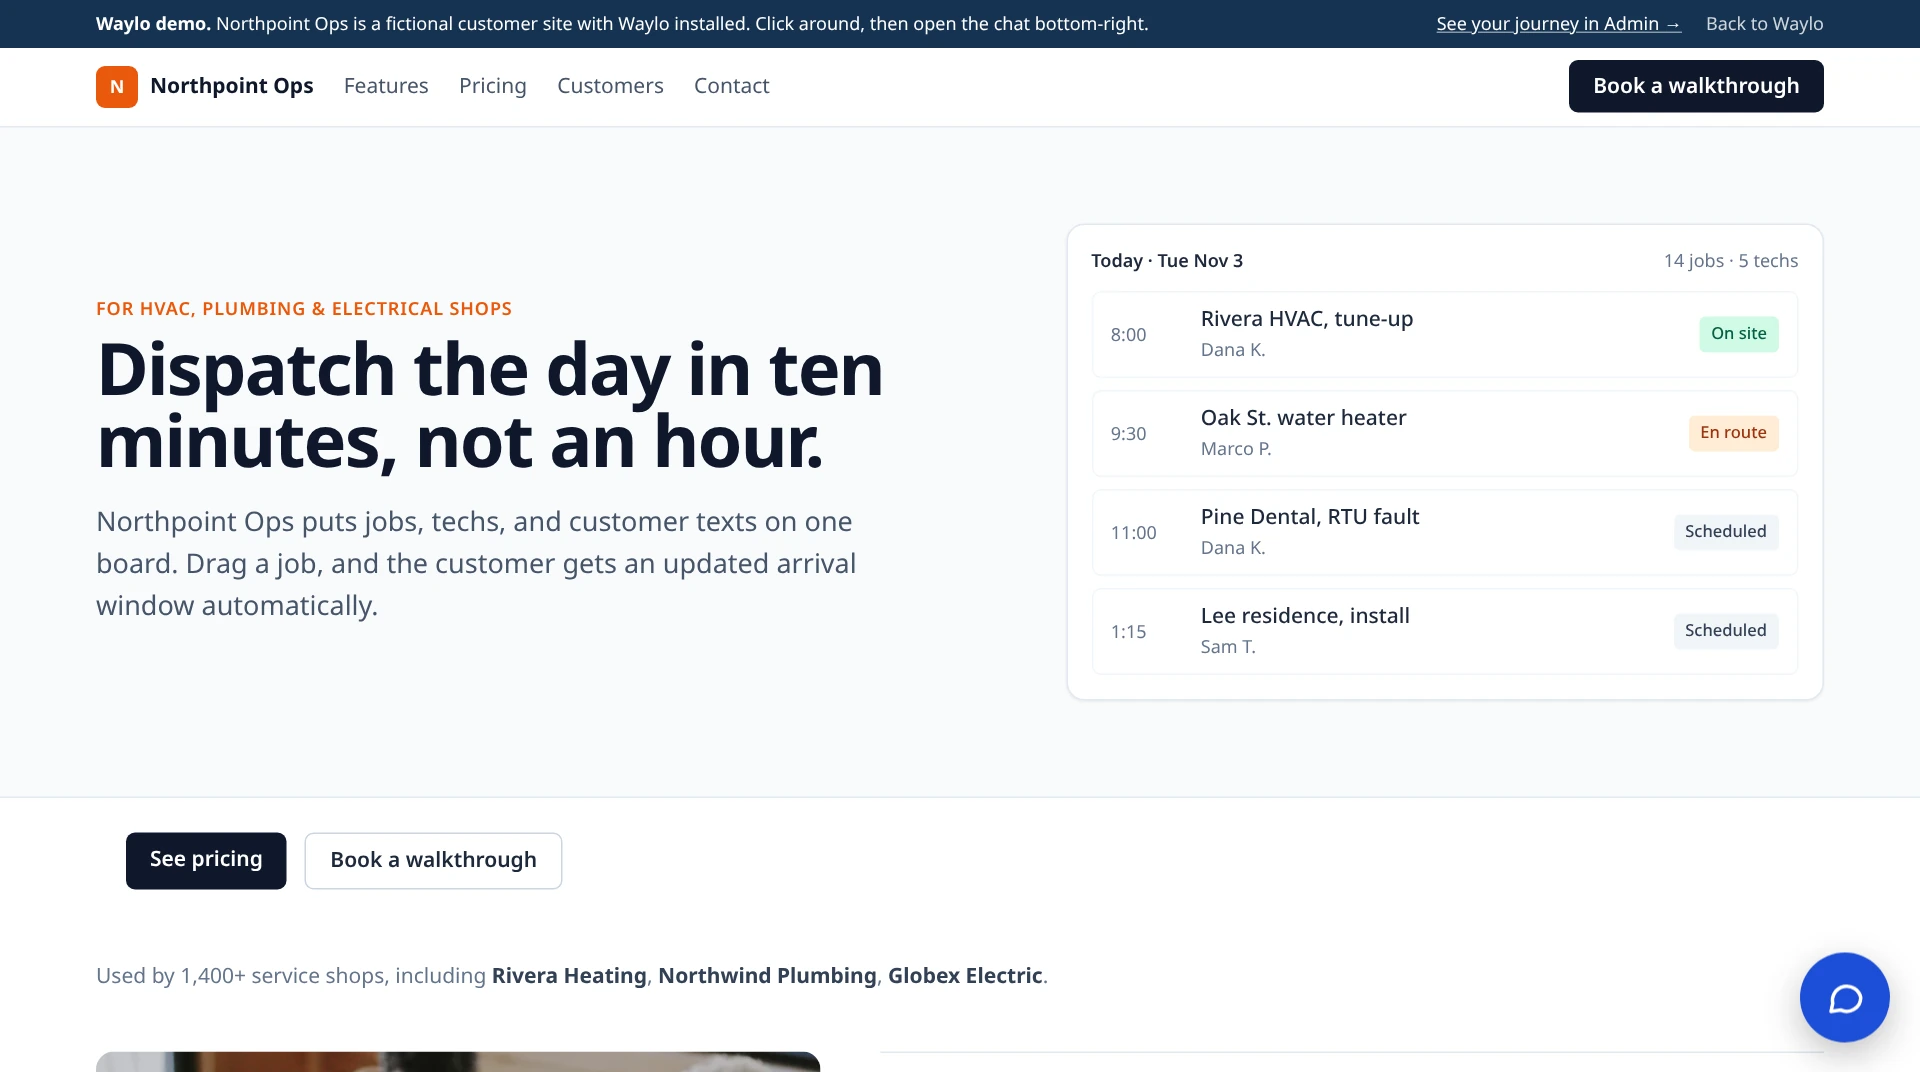
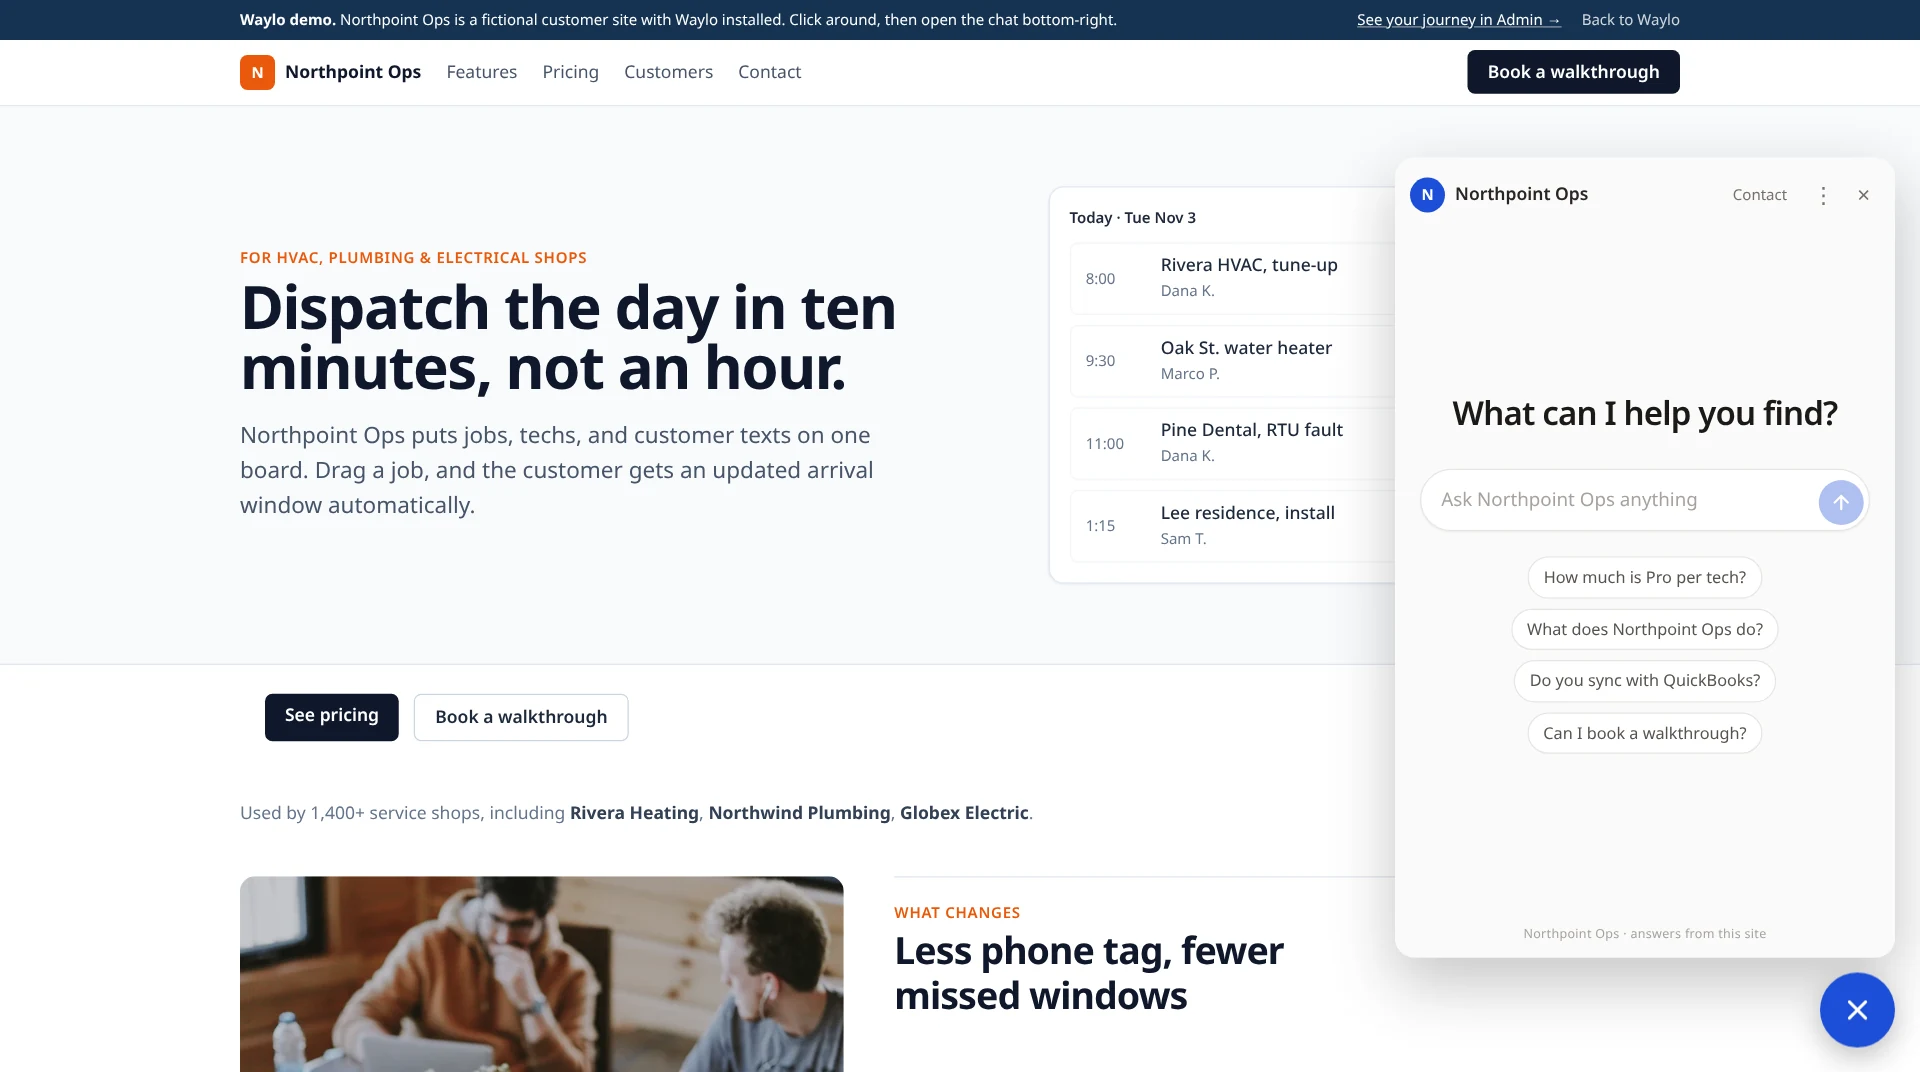
Reshoot chat screenshots with the new widget (start screen, streamed cited answers)

diff --git a/src/components/marketing/Shots.tsx b/src/components/marketing/Shots.tsx
@@ -2,10 +2,10 @@ import Image from "next/image";
 // Real product screenshots. Admin shots were captured from a local Waylo build with
 // sample data (anonymous/sample visitors, our own site crawled); demo-site shots are the public /demo page (Northpoint Ops).
 export const SHOTS = {
-  answer: { src: "/product/demo-northpoint-answer.webp", w: 1920, h: 1072, where: "waylo-j5hv.onrender.com/demo", alt: "Waylo chat on the Northpoint Ops demo site answering a pricing question with a numbered source chip", caption: "Live /demo: Northpoint Ops is a sample company. The answer quotes Northpoint Ops’ pricing page and links it." },
-  widget: { src: "/product/widget-answer.webp", w: 406, h: 648, where: "Chat widget", alt: "Close-up of the Waylo chat widget: AI Chat and Contact tabs, a cited answer, thumbs feedback, and Talk to a person", caption: "The widget: AI Chat and Contact tabs, source chip, 👍/👎, “Talk to a person”." },
-  demoHome: { src: "/product/demo-northpoint-home.webp", w: 1920, h: 1072, where: "waylo-j5hv.onrender.com/demo", alt: "Northpoint Ops demo site with the Waylo launcher button in the corner", caption: "Launcher mode: one round button bottom-right, chat loads only when opened." },
-  demoPricing: { src: "/product/demo-northpoint-pricing.webp", w: 1920, h: 1072, where: "waylo-j5hv.onrender.com/demo/pricing", alt: "Northpoint Ops demo pricing page", caption: "The page the answer cited. Visitors can click through and check." },
+  answer: { src: "/product/demo-northpoint-answer.webp", w: 1920, h: 1072, where: "waylo-j5hv.onrender.com/demo", alt: "Waylo chat on the Northpoint Ops demo site answering “Do you sync with QuickBooks?” with a numbered source chip for the Features page", caption: "Live /demo: Northpoint Ops is a sample company. The answer comes from its Features page and links it." },
+  widget: { src: "/product/widget-answer.webp", w: 406, h: 648, where: "Chat widget", alt: "Close-up of the Waylo chat widget: AI Chat and Contact tabs, a cited answer with a source chip, Copy, Regenerate, thumbs feedback, and Talk to a person", caption: "The widget: a cited answer with its source chip, Copy, Regenerate, 👍/👎 and “Talk to a person”." },
+  demoHome: { src: "/product/demo-northpoint-home.webp", w: 1920, h: 1072, where: "waylo-j5hv.onrender.com/demo", alt: "Northpoint Ops demo site with the Waylo chat open on its start screen: “What can I help you find?” and four suggested questions", caption: "What visitors see: the chat opens with a few suggested questions they can tap." },
+  demoPricing: { src: "/product/demo-northpoint-pricing.webp", w: 1920, h: 1072, where: "waylo-j5hv.onrender.com/demo/pricing", alt: "Northpoint Ops demo pricing page with the Waylo chat answering “How much is Pro per tech?” and citing the pricing page", caption: "On the pricing page, the answer links the page it came from so visitors can check." },
   home: { src: "/product/admin-home.webp", w: 1440, h: 900, where: "Admin → Home", alt: "Waylo admin home with the go-live checklist, conversation, question, contact form and high-intent counts, and a 14-day questions chart", caption: "Admin home: go-live checklist, today’s numbers, questions over 14 days." },
   tracking: { src: "/product/admin-tracking.webp", w: 1440, h: 900, where: "Admin → Tracking → visitor", alt: "Visitor journey in the Waylo admin showing pageviews, referrer and questions in order", caption: "Visitor journey: pages, referrer, and questions in the order they happened." },
   content: { src: "/product/admin-content.webp", w: 1440, h: 900, where: "Admin → Content", alt: "Waylo admin Content view listing crawled pages with how often each was cited", caption: "Content: every crawled page, its text preview, and how often answers cited it." },

diff --git a/src/lib/tour.ts b/src/lib/tour.ts
@@ -8,7 +8,7 @@ const STEPS: { file: string; title: string; caption: string; alt: string; fallba
   { file: "02-add-site-crawl.webp", title: "Add your site and crawl it", caption: "Paste your domain in Content. Waylo reads your public pages in the background, starting from your sitemap, and lists every page it kept.", alt: "Waylo Content view with the crawl box and the list of indexed pages", fallback: ["/product/admin-content.webp", 1440, 900], href: "/product/ai-chat" },
   { file: "03-branding.webp", title: "Name it, color it, guide it", caption: "Assistant name, accent color, and greeting in Settings. Facts, rules, and skills in Guidance for what your pages don’t say.", alt: "Waylo Settings with workspace, website, company profile and branding", fallback: ["/product/admin-settings.webp", 1440, 900], href: "/product/branding" },
   { file: "04-install-snippet.webp", title: "Add Waylo to your site", caption: "Copy your snippet from Install and paste it before </body> or in Google Tag Manager. Launcher, sidebar, or data-mode=\"track\".", alt: "Waylo Install page with the copy-paste script tag", fallback: ["/product/admin-install.webp", 1440, 900], href: "/product/install" },
-  { file: "05-live-chat-cited.webp", title: "Visitors get cited answers", caption: "Answers come only from your pages and guidance, with source chips that link the page used. No match means “I don’t know,” not a guess.", alt: "Waylo AI Chat page with the live preview answering a pricing question with a source chip", fallback: ["/product/demo-northpoint-answer.webp", 1920, 1072], href: "/product/citations" },
+  { file: "05-live-chat-cited.webp", title: "Visitors get cited answers", caption: "Answers come only from your pages and guidance, with source chips that link the page used. No match means “I don’t know,” not a guess.", alt: "Waylo pricing page with the Waylo chat open, answering “Is there a free trial?” with a source chip", fallback: ["/product/demo-northpoint-answer.webp", 1920, 1072], href: "/product/citations" },
   { file: "06-dashboard-questions-leads.webp", title: "See questions, leads and journeys", caption: "Questions, leads and visitor journeys show up here as people use the chat. This is a fresh test workspace, so the counts are small.", alt: "Waylo Home dashboard for a test workspace: setup checklist, conversation and question counts, and workspace status", fallback: ["/product/admin-home.webp", 1440, 900], href: "/product/analytics" },
   { file: "07-slack-routing.webp", title: "Route serious visitors to Slack", caption: "On any plan, paste a Slack incoming webhook and pick events. High-intent visitors, contact forms, and “talk to a person” requests post with a link to the conversation.", alt: "Waylo Integrations page with Slack webhook, CRM webhook and notification settings", fallback: ["/product/admin-integrations.webp", 1440, 900], href: "/product/slack-routing" },
   { file: "08-trial.webp", title: "Publish on the Trial, upgrade when it earns", caption: "Publishing needs a Trial or plan. Starter is $79/mo and Growth $249/mo through Stripe Checkout (test mode during early access).", alt: "Waylo Billing page with Trial, Starter and Growth plans", fallback: ["/product/admin-billing.webp", 1440, 900], href: "/pricing" },

diff --git a/src/lib/pages/product.ts b/src/lib/pages/product.ts
@@ -34,7 +34,7 @@ export const PRODUCT: InfoDef[] = [
   answer: "After each answer, Waylo attaches up to three source chips, each linking to a page on your site that the answer used. If no page supports an answer, it doesn’t invent a source. It says it couldn’t find one.",
   metaTitle: "Cited answers and source chips", metaDesc: "Waylo answers website visitors with numbered source chips that link to the exact pages used. How citations work, what visitors see, and how you audit them.",
   blocks: [
-    { t: "shot", eyebrow: "What visitors see", h: "A short answer with its source", shot: "widget", p: ["On the Northpoint Ops demo, “How much is Pro per tech?” gets a one-line answer and a chip labeled **1 · Northpoint Ops Pricing**. Click it and you land on the pricing page the numbers came from.", "A visitor doesn’t have to take the chat’s word for it. They can check in one click."],
+    { t: "shot", eyebrow: "What visitors see", h: "A short answer with its source", shot: "widget", p: ["On the Northpoint Ops demo, “Do you sync with QuickBooks?” gets a one-line answer and a chip labeled **1 · Northpoint Ops Features**. Click it and you land on the page the answer came from.", "A visitor doesn’t have to take the chat’s word for it. They can check in one click."],
       bullets: [["Up to 3 chips", "Per answer, numbered in the order used."], ["Absolute links", "Chips open the real page on your domain."], ["No chip, no claim", "When nothing supports an answer, it says so."]] },
     { t: "prose", eyebrow: "Why it matters", h: "Why sources matter", p: ["Most website bots answer confidently and you can’t tell where the words came from. When the answer is wrong, the visitor finds out later, usually on a sales call.", "Showing the source helps twice. Visitors trust a correct answer more because they can check it. A wrong answer is easy to spot and fix, because you can see which page the model used.", "It also tells you which pages do the selling. The Content view counts how often each page was cited."],
       aside: { title: "How Waylo picks sources", items: ["Retrieves the pages that best match the question", "The model must list which numbered sources it used", "Waylo turns those numbers into chips", "Guidance facts can answer without a page; those show no chip"] } },

diff --git a/src/components/marketing/HomeTour.tsx b/src/components/marketing/HomeTour.tsx
@@ -6,7 +6,7 @@ import { SlackCard } from "./HomeVisuals";
 type Tab = { title: string; line: string; img?: { src: string; w: number; h: number; alt: string }; note?: string };
 // Homepage-only tour: what an evaluator gets, not setup steps. Separate from the 8-step tour in lib/tour.ts.
 const TABS: Tab[] = [
-  { title: "Visitors get a straight answer", line: "Waylo answers from your own pages and links the page it used, so visitors can check it.", img: { src: "/tour/05-live-chat-cited.webp", w: 1600, h: 893, alt: "Waylo AI Chat page with a live preview answering a pricing question and a source chip linking the pricing page" }, note: "Test workspace" },
+  { title: "Visitors get a straight answer", line: "Waylo answers from your own pages and links the page it used, so visitors can check it.", img: { src: "/tour/05-live-chat-cited.webp", w: 1600, h: 893, alt: "Waylo chat on the Waylo pricing page answering “Is there a free trial?” with a source chip linking the signup page" }, note: "Live chat on this site" },
   { title: "See what buyers ask", line: "Conversations, questions and contact requests add up on your dashboard as people use the chat.", img: { src: "/tour/home-dashboard-sample.webp", w: 1600, h: 893, alt: "Waylo Home dashboard for the fictional Northpoint Ops workspace with conversation, question, contact form and high-intent counts and a 14-day question chart" }, note: "Sample data" },
   { title: "Know who’s ready", line: "Each visitor’s journey shows the pages they read and the questions they asked. Buying signals are tagged as they come up.", img: { src: "/product/admin-tracking.webp", w: 1440, h: 900, alt: "Waylo visitor journey: pages viewed, questions asked and a summary of the visit" }, note: "Sample data" },
   { title: "Hear about ready buyers in Slack", line: "When a visitor looks ready to buy or leaves their details, your channel gets a message with a link to the conversation.", note: "Illustration · Northpoint Ops is fictional" },
